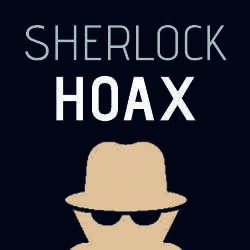
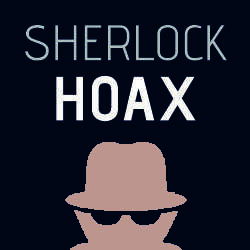
Refine About Me images and navigation

Changed region(s): [[0.252, 0.56, 0.756, 1.0]]

diff --git a/src/pages/AboutMe.tsx b/src/pages/AboutMe.tsx
@@ -4,6 +4,7 @@ type Award = {
   result: string;
   category: string;
   image: string;
+  grayscaleImage: string;
   title: string;
   description: string;
   resultsUrl?: string;
@@ -61,6 +62,7 @@ const awards: Award[] = [
     result: "1st place at Chipp.ai",
     category: "Prompt Engineer Hackathon",
     image: "/CPT_TUB_AGENTOS.jpg",
+    grayscaleImage: "/PB_CPT_TUB_AGENTOS.jpg",
     title: "AgentOS, Multi-Tasking AI Agent",
     description:
       "AgentOS is a personalized multi-tasking AI agent designed to execute multiple internal and external functions from a single prompt input.",
@@ -71,6 +73,7 @@ const awards: Award[] = [
     result: "1st place at FlowGPT",
     category: "Original Prompt Engineering Technique",
     image: "/CPT_TUB.jpg",
+    grayscaleImage: "/PB_CPT_TUB.jpg",
     title: "Concatenated Prompt Technique",
     description:
       "An advanced prompt engineering method that lets ChatGPT run multiple prompt layers in a single input, expanding complex interactions into prompt-app experiences.",
@@ -81,6 +84,7 @@ const awards: Award[] = [
     result: "2nd place at FlowGPT Hackathon S3",
     category: "Prompt Engineer, Judge Category",
     image: "/TUB_JUDGEN.jpg",
+    grayscaleImage: "/PB_TUB_JUDGEN.jpg",
     title: "AI Judgen",
     description:
       "A prompt evaluation agent that grades creativity, clarity, precision, originality, syntax consistency, logical structure, and improvement opportunities.",
@@ -90,7 +94,8 @@ const awards: Award[] = [
   {
     result: "1st place at FlowGPT Prompt Battle",
     category: "Past and Future",
-    image: "/TIME_TUB.jpg",
+    image: "/TIME_TUB2.jpg",
+    grayscaleImage: "/PB_TIME_TUB2.jpg",
     title: "Track to the Future",
     description:
       "An innovative built-in ChatGPT game about quantum travel, hidden life secrets, and speculative scenarios for humanity's future.",
@@ -101,6 +106,7 @@ const awards: Award[] = [
     result: "3rd place at FlowGPT Hackathon S2",
     category: "Creative Category",
     image: "/GPTINDER_Brazil.jpg",
+    grayscaleImage: "/PB_GPTINDER_Brazil.jpg",
     title: "GPTinder",
     description:
       "A creative dating advisor prompt that generates personalized conversation lines and topics for dating apps based on user and match context.",
@@ -111,6 +117,7 @@ const awards: Award[] = [
     result: "3rd place at FlowGPT Hackathon S2",
     category: "Software Development",
     image: "/TUB_ICON_v2.jpg",
+    grayscaleImage: "/PB_TUB_ICON_v2.jpg",
     title: "ICON Machine",
     description:
       "A Unicode icon discovery tool for ChatGPT that finds related icons, official names, and deployment-ready icon tables from any reference.",
@@ -121,6 +128,7 @@ const awards: Award[] = [
     result: "Finalist at FlowGPT Prompt Battle",
     category: "Innovative Built-In ChatGPT Game",
     image: "/MINECRAFT_MASHUP_CHATGPT_GAME.jpg",
+    grayscaleImage: "/PB_MINECRAFT_MASHUP_CHATGPT_GAME.jpg",
     title: "Minecraft Mashup Game",
     description:
       "A ChatGPT game experience built around an epic journey beyond The End, hidden messages, iconic game characters, and a mystery-driven adventure.",
@@ -131,6 +139,7 @@ const awards: Award[] = [
     result: "Finalist at FlowGPT Prompt Battle",
     category: "Innovative ChatGPT Built-In Game",
     image: "/SHERLOCK_TUB.jpg",
+    grayscaleImage: "/PB_SHERLOCK_TUB.jpg",
     title: "Sherlock Hoax",
     description:
       "A themed investigation game with expert characters designed to explore complex theories from multiple perspectives inside a conversational experience.",
@@ -253,7 +262,8 @@ export default function AboutMePage() {
             {awards.map((award) => (
               <article className="about-me-award-card" key={`${award.result}-${award.title}`}>
                 <div className="about-me-award-image-wrap">
-                  <img src={award.image} alt="" className="about-me-award-image" loading="lazy" />
+                  <img src={award.grayscaleImage} alt="" className="about-me-award-image about-me-award-image--gray" loading="lazy" />
+                  <img src={award.image} alt="" className="about-me-award-image about-me-award-image--color" loading="lazy" />
                 </div>
                 <div className="about-me-award-content">
                   <p className="about-me-award-result">{award.result}</p>

diff --git a/src/styles.css b/src/styles.css
@@ -1225,7 +1225,7 @@ img {
 .about-me-award-card {
   display: grid;
   min-height: 215px;
-  grid-template-columns: minmax(180px, 0.94fr) minmax(0, 1.06fr);
+  grid-template-columns: 215px minmax(0, 1fr);
   overflow: hidden;
   border: 1px solid var(--border);
   border-radius: 10px;
@@ -1239,22 +1239,36 @@ img {
   transform: translateY(-3px);
 }
 .about-me-award-image-wrap {
-  min-height: 100%;
+  position: relative;
+  width: 215px;
+  aspect-ratio: 1;
+  align-self: stretch;
   overflow: hidden;
   background: #151a20;
 }
 .about-me-award-image {
+  position: absolute;
+  inset: 0;
   width: 100%;
   height: 100%;
   object-fit: cover;
   object-position: center;
-  filter: saturate(0.82) contrast(1.04) brightness(0.88);
-  transition: transform 300ms ease, filter 300ms ease;
+  filter: contrast(1.04) brightness(0.88);
+  transition: opacity 260ms ease, filter 260ms ease;
+}
+.about-me-award-image--gray {
+  opacity: 1;
+}
+.about-me-award-image--color {
+  opacity: 0;
 }
 .about-me-award-card:hover .about-me-award-image,
 .about-me-award-card:focus-within .about-me-award-image {
   filter: saturate(0.95) contrast(1.05) brightness(0.96);
-  transform: scale(1.025);
+}
+.about-me-award-card:hover .about-me-award-image--color,
+.about-me-award-card:focus-within .about-me-award-image--color {
+  opacity: 1;
 }
 .about-me-award-content {
   display: flex;
@@ -1264,12 +1278,13 @@ img {
 }
 .about-me-award-result {
   margin: 0 0 5px;
-  color: var(--accent);
+  color: var(--white);
   font-size: 1.175rem;
   font-weight: 700;
   letter-spacing: 0;
   line-height: 1.08;
   text-transform: uppercase;
+  transition: color 180ms ease;
 }
 .about-me-award-category {
   min-height: 0;
@@ -1289,6 +1304,13 @@ img {
   font-weight: 600;
   letter-spacing: 0;
   line-height: 1.08;
+  transition: color 180ms ease;
+}
+.about-me-award-card:hover .about-me-award-result,
+.about-me-award-card:focus-within .about-me-award-result,
+.about-me-award-card:hover .about-me-award-content h3,
+.about-me-award-card:focus-within .about-me-award-content h3 {
+  color: var(--accent);
 }
 .about-me-award-content > p:last-of-type {
   margin: 0;
@@ -1490,8 +1512,8 @@ img {
   .about-me-hero-grid { grid-template-columns: minmax(0, 6fr) minmax(330px, 5fr); gap: 52px; }
   .about-me-hero h1 { font-size: 5rem; }
   .about-me-hero h1 .about-me-title-subline { font-size: 2.635rem; }
-  .about-me-award-card { grid-template-columns: 1fr; }
-  .about-me-award-image-wrap { min-height: 225px; }
+  .about-me-award-card { grid-template-columns: 225px minmax(0, 1fr); }
+  .about-me-award-image-wrap { width: 225px; }
   .hero-grid { grid-template-columns: minmax(0, 6.8fr) minmax(320px, 5.2fr); }
   .hero-title { font-size: clamp(3.36rem, 6.96vw, 5.6rem); }
   .hero-intro { grid-template-columns: 1fr; gap: 24px; }
@@ -1529,7 +1551,8 @@ img {
   .about-me-feature-grid,
   .about-me-awards-grid { grid-template-columns: 1fr; }
   .about-me-feature-card { min-height: 0; }
-  .about-me-award-card { grid-template-columns: minmax(210px, 0.86fr) minmax(0, 1.14fr); }
+  .about-me-award-card { grid-template-columns: 210px minmax(0, 1fr); }
+  .about-me-award-image-wrap { width: 210px; }
   .about-me-cta-actions { flex-wrap: wrap; }
   .scroll-cue { display: none; }
   .stats-grid { grid-template-columns: repeat(2, 1fr); }
@@ -1568,7 +1591,7 @@ img {
   .about-me-feature-card { padding: 22px; }
   .about-me-feature-card h3 { margin-bottom: 28px; }
   .about-me-award-card { grid-template-columns: 1fr; }
-  .about-me-award-image-wrap { min-height: 205px; }
+  .about-me-award-image-wrap { width: 100%; }
   .about-me-award-content { padding: 22px; }
   .about-me-final-cta { padding-top: 58px; }
   .hero-portrait-column { min-height: 560px; }
@@ -2412,12 +2435,14 @@ img {
 }
 
 .video-hero-next-actions {
+  justify-content: center;
   align-items: center;
+  gap: 14px;
   margin-top: 30px;
 }
 
 .video-hero-next-actions .button {
-  margin-inline: auto;
+  margin-inline: 0;
 }
 
 .video-scroll-cue {

diff --git a/src/pages/Video.tsx b/src/pages/Video.tsx
@@ -7,16 +7,6 @@ const HERO_SCRUB_DISTANCE = 2200;
 const HERO_VIDEO_FPS = 15;
 const HERO_VIDEO_FRAME_DURATION = 1 / HERO_VIDEO_FPS;
 
-const stats = [
-  { value: "20+", label: "Years of Experience" },
-  { value: "50+", label: "Interactive Projects Delivered" },
-  { value: "150K+", label: "Followers Across Social Platforms" },
-  {
-    value: "5",
-    label: "International Prompt Engineering Hackathon Awards",
-  },
-];
-
 const groundingTopics = [
   "Retrieval-Augmented Generation (RAG)",
   "GraphRAG",
@@ -80,6 +70,10 @@ function Brand() {
       <img className="brand-logo" src="/logo.svg" alt="" aria-hidden="true" />
     </span>
   );
+}
+
+function openAssistantChat() {
+  window.dispatchEvent(new Event("criativai:open-chat"));
 }
 
 function ProjectVisual({ type }: { type: "hr" | "trading" | "dante" }) {
@@ -295,7 +289,7 @@ export default function VideoPage() {
           </div>
         </div>
 
-          <a className="scroll-cue video-scroll-cue" href="#experience" aria-label="Scroll to experience and numbers">
+          <a className="scroll-cue video-scroll-cue" href="#projects" aria-label="Scroll to featured projects">
             <span>Scroll to explore</span>
             <i aria-hidden="true" />
           </a>
@@ -318,22 +312,14 @@ export default function VideoPage() {
               unlocking new opportunities, accelerating your initiatives, and driving better results.
             </p>
             <div className="hero-actions video-hero-next-actions">
-              <a className="button button--light" href="/contact">
-                Let&apos;s Talk <span aria-hidden="true">↗</span>
+              <button className="button button--accent" type="button" onClick={openAssistantChat}>
+                Ask My AI Assistant and Book a Call <span aria-hidden="true">-&gt;</span>
+              </button>
+              <a className="button button--ghost" href="/contact">
+                Drop Me a Message <span aria-hidden="true">-&gt;</span>
               </a>
             </div>
           </div>
-        </div>
-      </section>
-
-      <section className="stats-section" id="experience" aria-label="Experience and key numbers">
-        <div className="site-container stats-grid">
-          {stats.map((stat) => (
-            <article className="stat" key={stat.value}>
-              <strong className="stat-value">{stat.value}</strong>
-              <p>{stat.label}</p>
-            </article>
-          ))}
         </div>
       </section>
 

diff --git a/src/components/SiteHeader.tsx b/src/components/SiteHeader.tsx
@@ -4,15 +4,15 @@ import { useEffect, useMemo, useState, type CSSProperties, type ReactNode } from
 
 const navigation = [
   { label: "Services", href: "#services" },
-  { label: "Projects", href: "#projects" },
+  { label: "Projects", href: "#projects", adminOnly: true },
   { label: "About Me", href: "/about-me" },
-  { label: "Human Resources", href: "/human-resources" },
-  { label: "Vídeo", href: "/video" },
+  { label: "Human Resources", href: "/human-resources", adminOnly: true },
+  { label: "Vídeo", href: "/", adminOnly: true },
   { label: "Contact", href: "/contact" },
-  { label: "Style", href: "/style" },
+  { label: "Style", href: "/style", adminOnly: true },
 ];
 
-export function SiteHeader({ brand, page = "home" }: { brand: ReactNode; page?: "home" | "style" | "human-resources" | "talent-preview" | "contact" | "video" | "about-me" }) {
+export function SiteHeader({ brand, page = "home" }: { brand: ReactNode; page?: "home" | "style" | "human-resources" | "talent-preview" | "contact" | "video" | "about-me" | "adm" }) {
   const [scrollProgress, setScrollProgress] = useState(0);
   const [menuOpen, setMenuOpen] = useState(false);
 
@@ -73,7 +73,7 @@ export function SiteHeader({ brand, page = "home" }: { brand: ReactNode; page?: 
 
         <div className="header-right" id="primary-navigation">
           <nav className="primary-nav" aria-label="Primary navigation">
-            {navigation.map((item) => {
+            {navigation.filter((item) => !item.adminOnly || page === "adm").map((item) => {
               const href = page !== "home" && item.href.startsWith("#") ? `/${item.href}` : item.href;
               return <a key={item.href} href={href} onClick={() => setMenuOpen(false)}>{item.label}</a>;
             })}

diff --git a/src/pages/Admin.tsx b/src/pages/Admin.tsx
@@ -1,5 +1,6 @@
 import { useEffect, useState } from "react";
 import { MarkdownText } from "../components/MarkdownText";
+import { SiteHeader } from "../components/SiteHeader";
 import "./Admin.css";
 
 type AdminConversationSummary = {
@@ -37,6 +38,14 @@ type ChatTracingStatus = {
 type AdminPromptResponse = {
   content: string;
 };
+
+function Brand() {
+  return (
+    <span className="brand-lockup" aria-label="CriativAI">
+      <img className="brand-logo" src="/logo.svg" alt="" aria-hidden="true" />
+    </span>
+  );
+}
 
 export default function AdminPage() {
   const [conversations, setConversations] = useState<AdminConversationSummary[]>([]);
@@ -263,6 +272,7 @@ export default function AdminPage() {
 
   return (
     <main className="admin-page">
+      <SiteHeader brand={<Brand />} page="adm" />
       <section className="admin-shell" aria-label="Admin conversations">
         <header className="admin-header">
           <div>

diff --git a/src/pages/Admin.css b/src/pages/Admin.css
@@ -1,6 +1,6 @@
 .admin-page {
   min-height: 100vh;
-  padding: 34px;
+  padding: 114px 34px 34px;
   background: var(--graphite);
   color: var(--white);
 }
@@ -8,7 +8,7 @@
 .admin-shell {
   display: grid;
   max-width: 1320px;
-  min-height: calc(100vh - 68px);
+  min-height: calc(100vh - 148px);
   margin: 0 auto;
   grid-template-rows: auto auto auto 1fr;
   gap: 18px;
@@ -654,11 +654,11 @@
 
 @media (max-width: 820px) {
   .admin-page {
-    padding: 18px;
+    padding: 96px 18px 18px;
   }
 
   .admin-shell {
-    min-height: calc(100vh - 36px);
+    min-height: calc(100vh - 114px);
   }
 
   .admin-header,

diff --git a/src/App.tsx b/src/App.tsx
@@ -19,10 +19,10 @@ function Page() {
   if (pathname === "/talent-preview") return <TalentPreviewPageLazy />;
   if (pathname === "/about-me") return <AboutMePageLazy />;
   if (pathname === "/contact") return <ContactPageLazy />;
-  if (pathname === "/video") return <VideoPageLazy />;
+  if (pathname === "/video") return <Home />;
   if (pathname === "/adm") return <AdminPage />;
   if (pathname === "/privacy" || pathname === "/terms") return <PrivacyTermsPage />;
-  return <Home />;
+  return <VideoPageLazy />;
 }
 
 export default function App() {
